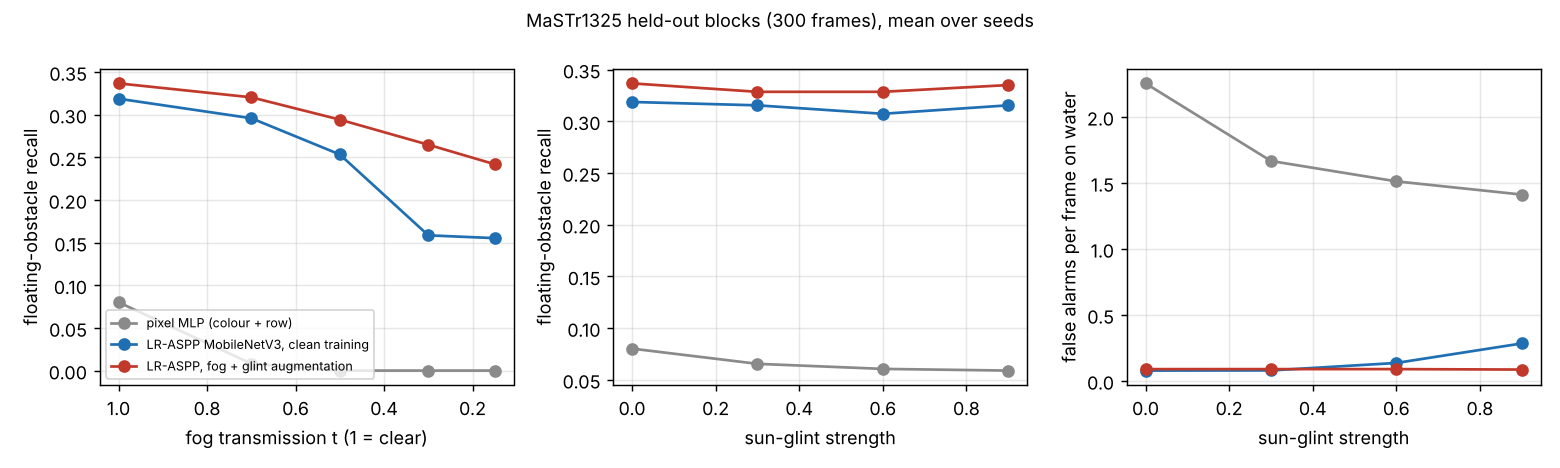
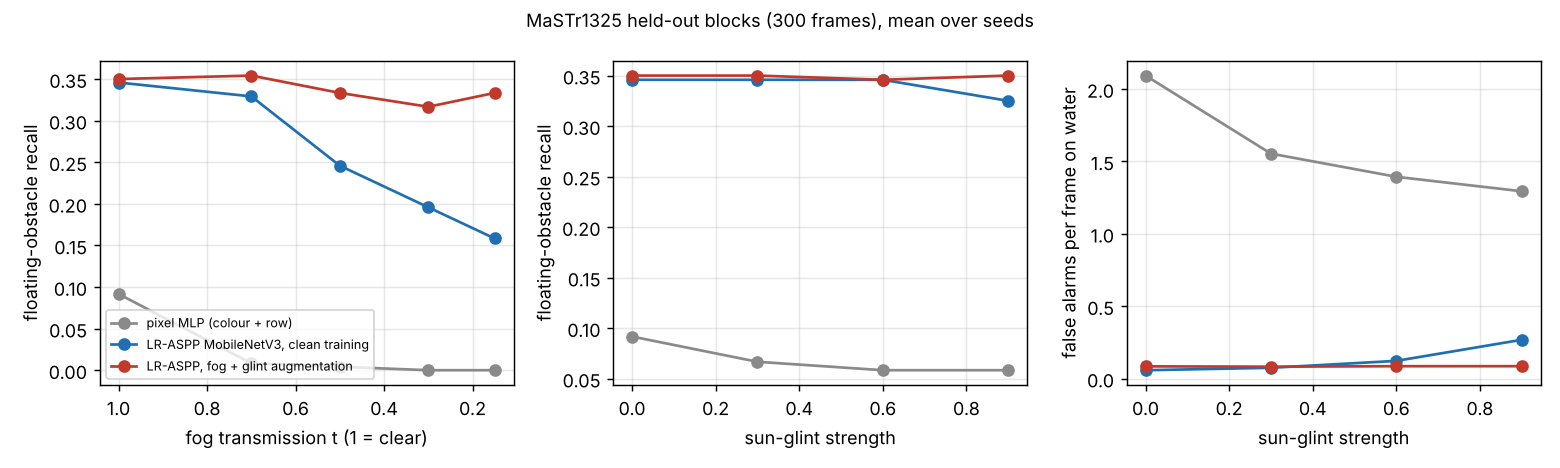
marine-detect: re-scored on MaSTr1325 with 8-connected, >= 4 px obstacles; headline holds, two claims withdrawn
Retrained all nine runs; old rule on the same predictions reproduces the
first run (31.2% vs 31.9%). New rule: 34.6% of 80 (was 31.9% of 204).
Fog-augmented all-object fall (34 -> 24%) and the far-obstacle trend
came from single-pixel fragments and are withdrawn.

Prompt-Version: quality/0
Claude-Session: https://claude.ai/code/session_01AcxTtGQjD6ZfWFzars3xDb

diff --git a/research/marine-detect/tests/test_marine_detect.py b/research/marine-detect/tests/test_marine_detect.py
@@ -56,6 +56,18 @@ def test_fog_limits_and_koschmieder():
     assert math.isclose(degrade.range_over_visibility(0.02), 1.0, rel_tol=1e-3)
 
 
+def test_fog_midpoint_is_affine_toward_airlight():
+    x = np.full((3, 2, 2), 0.2, np.float32)
+    assert np.allclose(degrade.fog(x, 0.5), 0.2 * 0.5 + 0.8 * 0.5)
+
+
+def test_aggregate_t_interval():
+    sys.path.insert(0, str(Path(__file__).resolve().parents[1] / "experiments"))
+    import aggregate
+    m, hw = aggregate.ms([0.3, 0.35, 0.4])
+    assert math.isclose(m, 0.35) and math.isclose(hw, 4.303 * 0.05 / math.sqrt(3), rel_tol=1e-9)
+
+
 def test_glint_only_brightens_and_saturates():
     gt = scene()
     x = np.full((3, 40, 60), 0.5, np.float32)

diff --git a/research/marine-detect/README.md b/research/marine-detect/README.md
@@ -9,39 +9,51 @@ fog and sun glint do to that. Research code, not a certified perception system.
 
 **Live page:** https://marisstella.app/research/marine-detect/
 
-## Result (300 held-out frames from 16 sequence blocks, 204 floating obstacles, 3 seeds, mean and 95% t-interval)
+## Result (300 held-out frames from 16 sequence blocks, 80 floating obstacles, 3 seeds, mean and 95% t-interval)
 
-| model | mIoU | obstacle IoU | floating obstacles found | of those at least 16 px (n = 31) | false alarms per frame |
+| model | mIoU | obstacle IoU | floating obstacles found | of those at least 16 px (n = 32) | false alarms per frame |
 |---|---|---|---|---|---|
-| pixel MLP (colour, saturation, row) | 0.848 | 0.642 | 8.0% | 10.8% | 2.25 |
-| LR-ASPP MobileNetV3, clean training | 0.967 +- 0.004 | 0.919 | 31.9% +- 4.9 | 60.2% +- 12.2 | 0.08 |
-| LR-ASPP, fog + glint augmentation | 0.967 +- 0.000 | 0.920 | 33.7% +- 6.2 | 64.5% +- 16.0 | 0.09 |
+| pixel MLP (colour, saturation, row) | 0.845 | 0.635 | 9.2% +- 1.8 | 11.5% | 2.09 |
+| LR-ASPP MobileNetV3, clean training | 0.967 +- 0.002 | 0.921 | 34.6% +- 7.2 | 61.5% +- 17.9 | 0.06 |
+| LR-ASPP, fog + glint augmentation | 0.967 +- 0.001 | 0.920 | 35.0% +- 6.2 | 64.6% +- 4.5 | 0.08 |
+
+Re-scored on 2026-11-18 (retrained, same code and data) after the
+[2026-11-17 quality audit](../../portfolio/quality/audits/2026-11-17-marine-detect.json) found that obstacles were
+4-connected with no size floor, which cut one diagonal pole into a run of 1-pixel "obstacles" (204 components, 80 of
+them single pixels). Obstacles are now 8-connected and at least 4 px, the same floor false alarms always had. Scored
+the old way on the same new predictions, recall is 31.2% +- 4.9 and 34.0% +- 4.6 of 204, matching the first run's
+31.9% and 33.7%, so the change of rule, not retraining noise, accounts for the differences below. The old run's files
+are in [`experiments/runs-4conn/`](experiments/runs-4conn/) and
+[`experiments/results-4conn.txt`](experiments/results-4conn.txt).
 
 ![Recall and false alarms against fog and glint](experiments/fig_degradation.png)
 
 - **A 0.97 mIoU hides a detector that misses most floating obstacles.** Pixel IoU is dominated by water, sky and
-  shore. Of the 204 obstacle components surrounded by water, the network covers half the pixels of only a third.
-  173 of them are under 16 pixels at 320x240 (41 px in the 512x384 originals): distant buoys and swimmers, and
-  fragments of thin structures (poles, mooring lines); recall there is 27%. Larger objects: 60% (32 to 256 px 48 to
-  64%, over 256 px 100%; n = 31, so the object-sampling interval alone is about +-17 points).
-  Read the all-object figure with care: components are labelled with 4-connectivity and no minimum size, so 80 of the
-  204 are single pixels (117 are 3 px or less), many of them fragments of one diagonal pole or line. The 16 px-and-up
-  figure (60%, n = 31) is the more reliable one until a re-score with 8-connectivity (see "Known gaps").
-- **Fog costs the clean-trained network most of its large-object recall.** At transmission 0.3 (an object at 31% of
-  the visibility range) recall of objects of at least 16 px falls from 60% to 28%, and to 23% at t = 0.15, while
-  mIoU only drops from 0.967 to 0.884. The pixel MLP finds nothing at t = 0.5.
-- **Fog augmentation makes recall almost fog-invariant, but on the same fog model it was trained on.** With fog and
-  glint in training, large-object recall stays at 61 to 65% across every fog level, and all-object recall falls only
-  from 34% to 24%. Real fog thickens with range and is not this uniform affine change, so this is an upper bound on
-  what augmentation buys.
+  shore. Of the 80 obstacle components surrounded by water, the network covers half the pixels of about a third
+  (35%). The result holds under both counting rules (31 to 35%). 48 of the 80 are 4 to 15 pixels at 320x240 (10 to
+  40 px in the 512x384 originals): distant buoys and swimmers and short thin structures; recall there is 15 to 17%.
+  Larger objects: 62 to 65% (32 to 256 px 53 to 72%, over 256 px 93 to 100%; n = 32, so the object-sampling interval
+  alone is about +-17 points). 61 components of 1 to 3 px are no longer counted; at that size an object cannot be
+  told from annotation noise.
+- **Fog costs the clean-trained network most of its large-object recall, with a wide seed spread.** At transmission
+  0.3 (an object at 31% of the visibility range) recall of objects of at least 16 px falls from 62% to 29% +- 35, and
+  to 23% +- 60 at t = 0.15, while mIoU only drops from 0.967 to 0.876. Each seed loses large-object recall under fog;
+  how much varies a lot between seeds. The pixel MLP finds nothing at t = 0.3.
+- **Fog augmentation makes recall fog-invariant, but on the same fog model it was trained on.** With fog and glint in
+  training, large-object recall stays at 62 to 66% across every fog level and all-object recall at 32 to 35%. The
+  first version reported all-object recall falling from 34% to 24%; that fall came from single-pixel fragments and is
+  gone under the new rule. Real fog thickens with range and is not this uniform affine change, so this is an upper
+  bound on what augmentation buys.
 - **Glint does not hide obstacles; it creates false ones.** Recall is flat under glint for every model, but the
-  clean-trained network's false alarms on open water rise from 0.08 to 0.28 per frame at glint strength 0.9 (3.6x);
-  with augmentation they stay at 0.09.
-- **Far obstacles are missed first.** Objects within 10 rows of the water edge (far away on a flat sea) are found
-  10 to 26% of the time; those more than 40 rows below it 46 to 50% (clean frames). At t = 0.15 the near group also
-  falls, to 12% (clean training) and 19% (augmented).
-- Full tables, by size and by rows below the water edge: [`experiments/results.txt`](experiments/results.txt).
-  Training takes 12 to 13 minutes per LR-ASPP run on 4 CPU cores. CPU training is not bit-reproducible.
+  clean-trained network's false alarms on open water rise from 0.06 to 0.27 per frame at glint strength 0.9 (4.6x);
+  with augmentation they stay at 0.08 to 0.09.
+- **No clear range trend.** The first version found obstacles within 10 rows of the water edge (far away on a flat
+  sea) 10 to 26% of the time. Under the new rule the nearest-horizon group (under 5 rows, n = 28) is found 48% of the
+  time, 5 to 10 rows 14 to 16%, 10 to 20 rows 30%, 20 to 40 rows 57% (n = 7). With bins this small and no monotone
+  pattern, the range claim is withdrawn.
+- Full tables, by size and by rows below the water edge, and the old rule on the same predictions:
+  [`experiments/results.txt`](experiments/results.txt). Training takes 11 to 12 minutes per LR-ASPP run on 4 CPU
+  cores. CPU training is not bit-reproducible.
 
 ## Method and reproduce
 
@@ -59,7 +71,8 @@ python3 experiments/aggregate.py > experiments/results.txt
 python3 experiments/figure.py
 ```
 
-SHA-256 of the two archives used here are in `src/marine_detect/data.py`.
+SHA-256 of the two archives used here are pinned in `src/marine_detect/data.py`; `data.verify_archive(<zip>)` checks
+a download against them (both matched on 2026-11-18).
 
 - **Data.** MaSTr1325 (Bovcon et al. 2019): 1325 frames at 512x384 from a small USV in the Gulf of Koper, with
   per-pixel labels obstacle/environment, water, sky and unknown (ignored). Frames come from sequences, so a random
@@ -70,10 +83,12 @@ SHA-256 of the two archives used here are in `src/marine_detect/data.py`.
   fog and glint augmentation (each applied with probability 0.5, t from 0.15 to 1, glint 0 to 0.9). A per-pixel MLP on
   colour, saturation and image row is the classical rung (3 epochs). Three seeds each.
 - **Scores.** Pixel IoU per class, and two detection-style scores in the spirit of MODS (Bovcon et al. 2022), which
-  MaSTr1325 has no boxes for: a *floating obstacle* is an obstacle component that does not touch the frame and whose
-  3-pixel ring (unknown pixels skipped) is mostly water; it is *found* when at least half its pixels are predicted
-  obstacle. A *false alarm* is a predicted obstacle blob of at least 4 pixels lying wholly on ground-truth water.
-  The test blocks hold 204 floating obstacles.
+  MaSTr1325 has no boxes for: a *floating obstacle* is an 8-connected obstacle component of at least 4 pixels that
+  does not touch the frame and whose 3-pixel ring (unknown pixels skipped) is mostly water; it is *found* when at least
+  half its pixels are predicted obstacle. A *false alarm* is an 8-connected predicted obstacle blob of at least 4
+  pixels lying wholly on ground-truth water; a blob touching an unknown pixel is not counted (it may be an unlabelled
+  object). The 4-pixel floor and the half-cover rule are this study's choices, not the MODS protocol, which scores
+  boxes. The test blocks hold 80 floating obstacles (204 under the first version's 4-connected, no-floor rule).
 - **Fog** is the atmospheric scattering model I = J t + A (1 - t) (Koschmieder 1924; Narasimhan and Nayar 2002;
   synthetic fog for segmentation as in Sakaridis et al. 2018), with uniform transmission t and airlight 0.8. With
   the 2% contrast threshold an object seen through transmission t sits at d / V = -ln(t) / 3.912 of the
@@ -123,9 +138,7 @@ AI-assisted (Claude Code).
 
 From the [2026-11-17 quality audit](../../portfolio/quality/audits/2026-11-17-marine-detect.json):
 
-- `metrics.py` labels obstacle components with scipy's default 4-connectivity and no minimum area, so a diagonal
-  8-pixel line counts as 8 obstacles. The "32% of 204" headline rests on that count; switching to 8-connectivity
-  needs the dataset to re-score.
-- Ground-truth obstacles count from 1 px, but predicted blobs under 4 px never count as false alarms.
-- Five of six seeded bugs survived the tests; `aggregate.py` and `model.py` have none.
+- Fixed 2026-11-18: 4-connected obstacles with no size floor (now 8-connected, at least 4 px on both the ground-truth
+  and false-alarm side; re-scored above). The tests now pin the connectivity, the size floor, the half-cover
+  threshold, the water-ring filter, the fog midpoint and the t-quantile; `model.py` (training) is still untested.
 - eWaSR (Teršek et al. 2023), the closest lightweight-network result on MODS/MaSTr1325, is not cited.

diff --git a/research/README.md b/research/README.md
@@ -1037,7 +1037,7 @@ Moved here from the former `oss-research-monorepo` repository with its history. 
 - [`research/llm-coding-inference`](llm-coding-inference) — research programme: valid inference from LLM-coded qualitative data under group shift and rare categories; on 44,485 real tweets a pooled PPI interval covers as little as 67% when the audit's language mix differs from the corpus, a language-stratified one 94 to 96%
 - [`research/lowcomm-training`](lowcomm-training) — research programme (milestone 6, results on small transformers): a predictive theory of DiLoCo-style low-communication training, testing on real small transformers the closed forms derived in about a dozen quadratic-model projects, with 16 references, hypotheses H1 to H6 and an ICML/NeurIPS workshop as the first target
 - [`research/marine-colregs`](marine-colregs) — on 115 scripted COLREGs encounters a rule-aware velocity-obstacle planner passes at least 100 m in 95.7% (rule-based 77.4%, sampling MPC 84.3%), but its safe share falls to 82-85% when the target's velocity estimate is off by 0.3 to 0.6 m/s, and the stand-on vessel's action range matters most: 91% at 200 m, 99% at 600 m
-- [`research/marine-detect`](marine-detect) — an LR-ASPP MobileNetV3 trained on MaSTr1325 scores 0.97 mIoU on held-out sequences yet finds only 32% of 204 floating obstacles (60% of those over 16 px); uniform fog at transmission 0.15 cuts large-object recall to 23%, fog-and-glint augmentation holds it at 61% (same fog model), and glint triples false alarms on open water for the clean-trained net
+- [`research/marine-detect`](marine-detect) — an LR-ASPP MobileNetV3 trained on MaSTr1325 scores 0.97 mIoU on held-out sequences yet finds only 35% of 80 floating obstacles (62% of those of 16 px or more); uniform fog at transmission 0.15 cuts the clean-trained net's large-object recall to 23% (wide seed spread), fog-and-glint augmentation holds it at 62% (same fog model), and glint raises false alarms on open water 4.6x for the clean-trained net
 - [`research/marine-dock`](marine-dock) — pursuit and plain line-of-sight capture 0% at any cross current of 0.1 m/s or more, while integral LOS captures 98 to 100% at 1.0 m/s near-dock speed; a slow 0.5 m/s docking speed fails by crab angle (36.9 degrees at 0.3 m/s current against a 30 degree gate), and position noise of 0.5 m leaves about 55% capture
 - [`research/marine-dr`](marine-dr) — drift per metre is sqrt(s^2 + (2 sin(b/2))^2) for DVL scale error s and heading bias b (simulation within 1%); with a 0.2% DVL, 1 degree of heading bias drifts 8.7x more than the DVL itself, and a 3 m surface fix every 1 to 2 km holds the 20 km worst-case error to 11 to 15 m against 64 m with no fix
 - [`research/marine-fleet`](marine-fleet) — on a line-spacing survey, a fleet of smaller boats bought with the money for one large boat finishes in a median 0.29 to 0.35 of the time and uses a median 0.20 to 0.35 of the energy in the 2,178 to 2,186 of 2,187 cases where it is affordable and wins (never slower); it is affordable only while the payload (sonar) is under half a boat's cost; swath is assumed independent of boat size, which favours the fleet

diff --git a/research/marine-detect/LOG.md b/research/marine-detect/LOG.md
@@ -1,5 +1,12 @@
 # Log
 
+## 2026-11-18 · Re-score with 8-connected obstacles and a 4-px floor (quality fix)
+
+- The 2026-11-17 quality audit found ground-truth obstacles labelled 4-connected with no size floor: 80 of 204 were single pixels, many from one diagonal pole. Now 8-connected and at least 4 px on both sides (false alarms already had the 4-px floor). MaSTr1325 archives re-downloaded; both SHA-256 matched the pinned values.
+- Counts on the 300 test frames: 204 (old rule), 141 (8-connected, no floor; 36 still single pixels), 80 (8-connected, >= 4 px). Objects of 16 px or more: 31 -> 32.
+- Retrained all nine runs and scored both rules on the same predictions. Old rule: 31.2% / 34.0% (first run 31.9% / 33.7%). New rule: 34.6% +- 7.2 / 35.0% +- 6.2 of 80; 16 px and up 61.5% / 64.6%. The headline (most floating obstacles missed) stands.
+- Changed: with augmentation, all-object recall no longer falls under fog (32-35%, was 34% -> 24%); the far-obstacle trend is withdrawn (nearest-horizon bin now 48%, no monotone pattern); the clean net's large-object loss under fog has a wide seed spread (t = 0.3: 29% +- 35).
+
 ## 2026-11-11 · Milestone 9a: MaSTr1325 baseline, fog, glint and object size
 
 - Question: does a CPU-trainable published segmentation network find the obstacles a USV must avoid, and how much do fog and sun glint cost? Data: MaSTr1325 (22 MB + 2 MB from data.vicos.si, CC BY 4.0), split by hashed blocks of 25 consecutive frames (1025 / 300).
